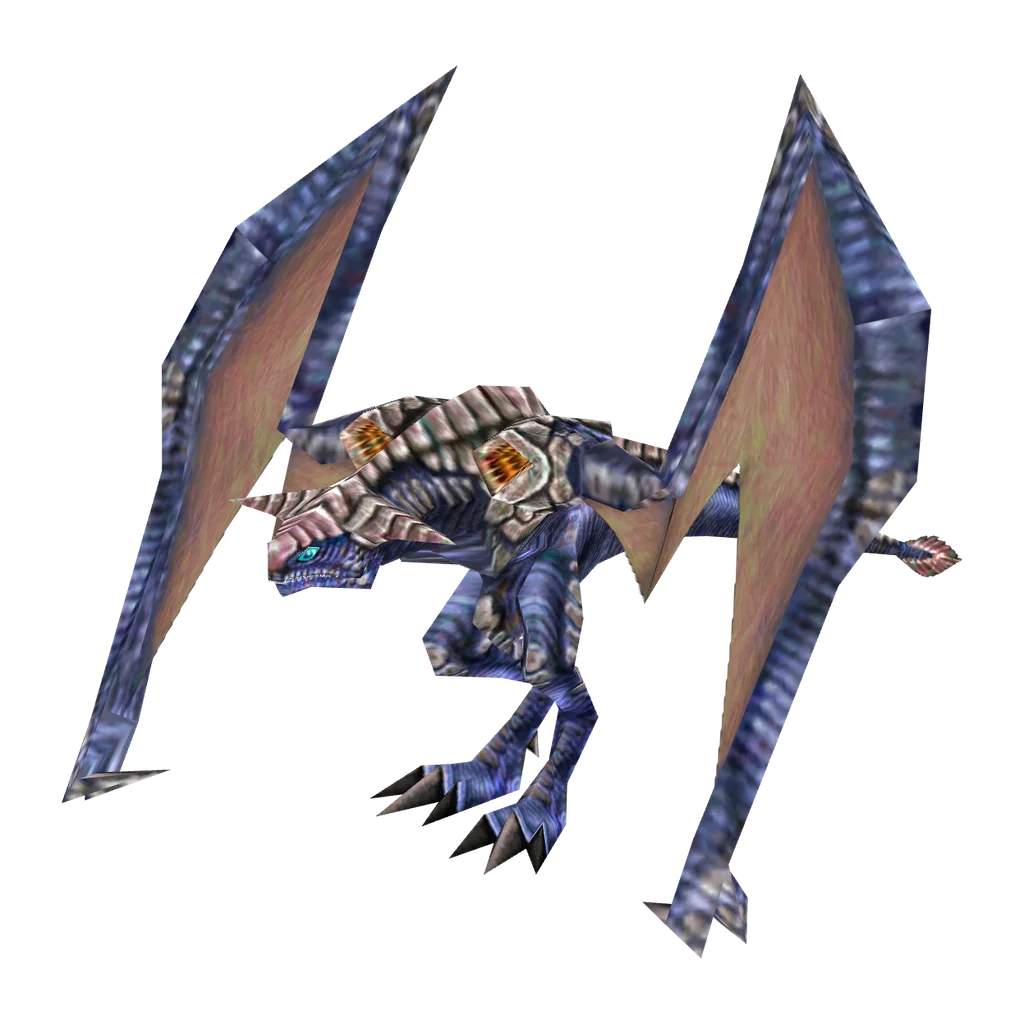
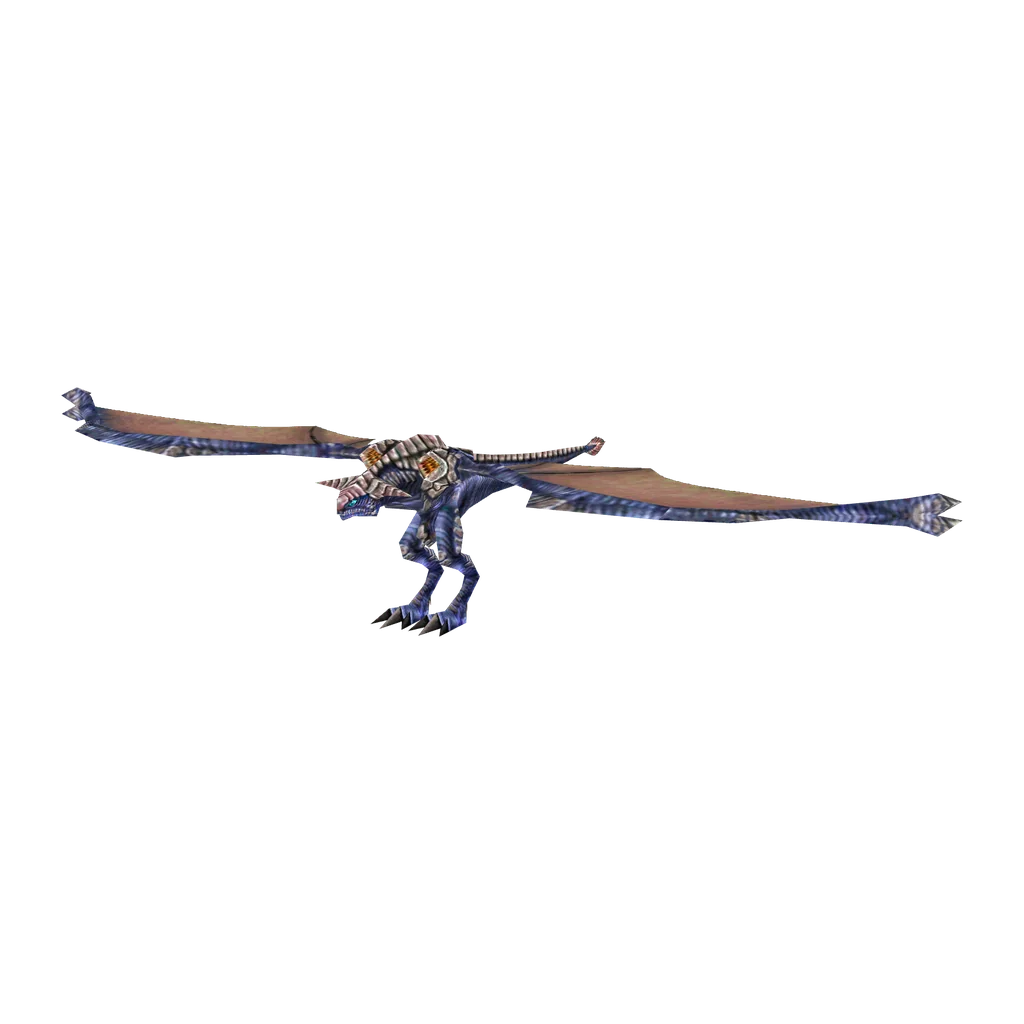
fix(monsters): align Gol Dragon name and spread-wing portraits

Changed region(s): [[0.0625, 0.0625, 0.9375, 0.9375]]

diff --git a/data/droptable/bb/data/zh.js b/data/droptable/bb/data/zh.js
@@ -3430,7 +3430,7 @@ window.DROP_DATA_ZH = {
             "dropRate": "1/4"
           },
           {
-            "name": "数码冰龙/数码冰龙",
+            "name": "戈尔龙/戈尔龙",
             "drops": [
               {
                 "item": "星之粉",
@@ -11271,7 +11271,7 @@ window.DROP_DATA_ZH = {
             "dropRate": "1/4"
           },
           {
-            "name": "数码冰龙/数码冰龙",
+            "name": "戈尔龙/戈尔龙",
             "drops": [
               {
                 "item": "勇者之拳",
@@ -19733,7 +19733,7 @@ window.DROP_DATA_ZH = {
             "dropRate": "1/4"
           },
           {
-            "name": "数码冰龙/数码冰龙",
+            "name": "戈尔龙/戈尔龙",
             "drops": [
               {
                 "item": "罪恶之光",
@@ -28806,7 +28806,7 @@ window.DROP_DATA_ZH = {
             "dropRate": "1/4"
           },
           {
-            "name": "数码冰龙/数码冰龙",
+            "name": "戈尔龙/戈尔龙",
             "drops": [
               {
                 "item": "上帝之手",

diff --git a/assets/js/i18n/items_i18n.js b/assets/js/i18n/items_i18n.js
@@ -1,4 +1,4 @@
-/* GENERATED by scripts/sync_item_i18n.py from droptable/i18n_names.json (SHA-256 f3e6de3e8fb19c68488ac03d1a85315b38bc0043512ce882f37be117c6826c06).
+/* GENERATED by scripts/sync_item_i18n.py from droptable/i18n_names.json (SHA-256 e189c94e97e587d816269e4b0612ebdf7ee989791d9250332d8fcc6639009dc5).
  * Do not edit this file; i18n_names.json is the sole authority. */
 window.ITEMS_I18N = {
   "1st_anniv_bronze_badge": {
@@ -2794,7 +2794,7 @@ window.ITEMS_I18N = {
   },
   "gol_dragon": {
     "en": "Gol Dragon",
-    "zh": "数码冰龙"
+    "zh": "戈尔龙"
   },
   "gold_badge": {
     "en": "Gold Badge",
@@ -3555,7 +3555,7 @@ window.ITEMS_I18N = {
   },
   "item_12": {
     "en": "ゴルドラゴン",
-    "zh": "数码冰龙",
+    "zh": "戈尔龙",
     "ja": "ゴルドラゴン"
   },
   "item_13": {

diff --git a/data/monsters.html b/data/monsters.html
@@ -654,7 +654,7 @@
 <li>[歼灭] Sweep-up Operation #6（扑杀作战 第6号） — Clear quest (11)</li>
 <li>[主线] 6-1:Test/Spaceship 1（虚拟宇宙船测试 1） — Clear quest (7)</li>
 </ul>
-<p><strong>数码冰龙（Gol Dragon）</strong></p>
+<p><strong>戈尔龙（Gol Dragon）</strong></p>
 <ul>
 <li>[VR] Respective Tomorrow（各自的明天） — Clear VR Spaceship (1)</li>
 <li>[Maximum Attack] Maximum Attack E: VR（极限攻击 E：虚拟空间） — Clear quest (1)</li>

diff --git a/data/droptable/ngc/data/zh.js b/data/droptable/ngc/data/zh.js
@@ -15376,7 +15376,7 @@ window.DROP_DATA_ZH = {
             "dropRate": "25%"
           },
           {
-            "name": "数码冰龙",
+            "name": "戈尔龙",
             "drops": [
               {
                 "item": "上帝之手",

diff --git a/docs/MONSTER_CATALOG.md b/docs/MONSTER_CATALOG.md
@@ -376,6 +376,7 @@ did not re-evaluate tiers or change the in-game rotation.
 - phantasmal-world 的部分资源命名有误，已改用客户端档案：其 Hidoom / Migium 实为出场地面物件（正确模型是 Pan Arms 档案 `bm7_s_paa_body` 的 `pal` / `par`），Canane 为另一模型（正确的是 `bm_ene_me1_mb`），挂在 MerissaA 名下的动作属于 Slime（`bm4_ps_ma_body`）。每次改动都应把渲染图与 Wiki / 高清图逐项对照。
 - 渲染：`npm run generate:monster-renders -- --harness-assets <phantasmal-world>/web/src/jsMain/resources/assets/npcs`（`scripts/render_monster_models.py`）先把档案条目提取到该目录的 `raw/`，再调用 `scripts/render_monster_models.mjs` 在无界面浏览器中驱动 phantasmal-world 的导出入口 `?npcBatch=1`（`window.__renderNpc`），用它自己的蒙皮与 NJM 动画转换摆姿势，分别在黑底与白底上渲染 2048 px；两图之差还原透明度，叠加发光材质保持半透明。结果裁切到模型、居中留边，输出 1024 px 与 160 px WebP，`manifest.json` 记录 SHA-256。该导出入口只存在于本机 phantasmal-world 工作副本，不属于其仓库；重新渲染前需在本机构建并以 `--harness` 指向它。
 - 姿势：默认用模型自己的待机动作（wait / stand / standby 等，Poison Lily 用张开的 `waito`）；EP4 首领一、二阶段分别用 `1st_standby` / `2nd_standby`。De Rol Le（含 Ultimate）用前进动作 `forward` 第 0 帧的伸展身体，模型绕 X 轴抬头 12°，从头部斜前方 45° 取景，与维护者提供的参考图一致。颈部 4 根触手是独立模型 `boss2_b_derorure_tentacle`，游戏运行时挂到本体头部骨骼下的 4 个空节点（骨骼 29–32）；`attach` 按骨骼编号把部件挂到摆好姿势的本体上，触手用自身摆动动作 `tloop` 第 16 帧（向后上方伸展）。Spinner 用 `standby`：其动作类型 `0x2005` 的四元数旋转位于缩放之前，phantasmal-world 原解析顺序（缩放在前）会读错，本机导出入口的构建修正了这一顺序。没有动作的模型用绑定姿势，Hildeblue 借用 Hildebear、Gobooma / Gigobooma 借用 Booma 的同骨架动作。Hidoom 以前的地面物件、Merissa A / AA、Pouilly Slime 的环境反射外壳在导出中会画成不透明色块，按材质序号隐藏。
+- 2026-09-30 姿态对齐：Zu 与 Nano Dragon 去掉 `wait` 动作，沿用 Pazuzu 的原始展翅姿势和默认机位（yaw 35°、pitch 12°）。原待机第 0 帧会让两翼竖起遮挡身体；本次用各自模型重新生成 1024 px 头像、160 px 缩略图及校验清单。Zu 的 Crater / Desert、普通 / Ultimate 共用同一外观，全部同步；Nano Dragon 的两组难度也共用此姿势。模型、贴图与高清参考图未改。 本地生产构建、13 项怪物数据/图片检查、33 项图鉴浏览器测试通过，并目视检查 Zu 两区域、Pazuzu 与 Nano Dragon 的 Ultimate 页面；未部署。
 - 档案贴图：没有自带贴图包的模型按编号引用同一档案的贴图包（默认第一个，可用 `texture` 指定、`textureOrder` 重排）。提取时把 XVRT 块首尾相接重新打包，因为部分档案的块带对齐填充，顺序读取 IFF 的解析器会只读到第一张贴图；同名的模型与动作（如 `fs_obj_hiraishin_a.nj` / `.njm`）分开索引。解码后的 DXT 贴图使用线性过滤（与游戏一致，避免放大后的像素块）。
 - 组合与特殊材质：`parts` 在同一场景中叠加多个模型（Olga Flow (Form 1) 的本体 `bssgc_pf01_body` 与腿 `bossgc_pf01_leg`，均用空中待机 `skywait`；该姿势按倒挂制作，`rotate` 绕 X 轴翻转 180° 后从 270° 方向取景，剑朝下，与高清图一致；地面待机 `grdwait` 绕 Z 轴翻转 180° 的正面姿势作为 `alternates` 保留，详情页以“地面姿势”按钮切换，列表缩略图只用主渲染）。Bee / Gee 的 `re4_b_bit` 是没有纹理坐标的环境映射模型，`plainMaps` + `planarUv` 按正面投影纹理坐标，显示其漩涡纹理。De Rol Le (Shell) 用头部骨盔 `boss2_b_helm_break`（与 Wiki 截图一致），Ultimate 取 `_a` 档案；骨盔与本体共用模型坐标，沿用本体的机位（绕 X 轴抬头 12°、斜前方 45°），骷髅头朝左，与 De Rol Le 本体图同向。
 - 未覆盖（5 个条目，保持高清图库或 Wiki 图片）：Vol Opt (Form 1)（参考图是整面墙）与 (Monitor)（屏幕上 Vol Opt 的脸是战斗中的实时画面，模型贴图只有文字）、De Rol Le (Mine)（候选模型与参考不符）、Nar Lily ×2（红色贴图未找到）。Death Gunner 目前与 Dark Gunner 使用同一贴图，客户端档案中没有找到其独立配色；Epsigard 使用 `re6_b_claw_body` 自带的红白贴图，比游戏截图多出白色区域。
@@ -440,3 +441,7 @@ did not re-evaluate tiers or change the in-game rotation.
 - 使用维护者提供的 1280 × 1280 透明 PNG 替换 Pyro Goran 普通 / Ultimate 共用的高清图。按图库规范以 Lanczos 缩放至 1024 × 1024，WebP quality 85 / method 6，保留透明度，成品 121,370 字节。
 - 清单同步附件名、来源路径 `User-provided corrections/2026-09-29/DESERT/暗黑狂刀魔.png`、尺寸、字节数、SHA-256 和两个外观绑定；旧 WebP 已移除，原附件不随站点提交。图库覆盖数量不变。
 - 本地验收：怪物测试 12 / 12 通过，成品已目视核对，生产构建通过（3,802 条路由、135 个活动片段）；构建产物的两种外观均绑定新图，旧资源已移除。维护者已批准本次图片修正提交并推送；线上部署以对应 Pages 工作流结果为准。
+
+### 2026-09-30 姿态验收交接
+
+维护者打开本地 Zu、Pazuzu 对照及 Nano Dragon 页面验收后，已要求对齐文档、提交推送。头像和缩略图的校验清单通过，生产构建及 33 项图鉴浏览器测试通过。本次与戈尔龙名称同步一并提交；前述未部署为本地验证时状态，线上结果以本次 Pages 工作流为准。

diff --git a/docs/PSOBB_CHINESE_LOCALIZATION.md b/docs/PSOBB_CHINESE_LOCALIZATION.md
@@ -300,3 +300,25 @@ WEAPONS …制徽章. Haven pins that revision and syncs the dictionary. The BB 
 code table (`data/bb_items.html`, all three languages) now references the BB
 name of each code at `031403`–`031409`, including `031406`, previously the raw
 v3 text `IRON BADGE`.
+
+### 2026-09-30 UN-13 Gol Dragon synchronization
+
+The user confirmed `Gol Dragon / ゴル　ドラゴン → 戈尔龙`. Local Unitxt
+slots `2:76` and `4:76` feed the regenerated droptable authority and Haven's
+`npm run sync:i18n`. The Chinese resource SHA-256 is
[1 lines of base64/hex data omitted]
+the authority SHA-256 is
[1 lines of base64/hex data omitted]
+
+The catalog, authored monster heading, area-name list and archived drop-chart
+labels use the confirmed name. The HD gallery's normalized source name changes;
+its original filename remains as provenance. Laconium item names are unchanged.
+
+Local verification passed the Unitxt gate, droptable's `verify:localization`,
+Haven's `npm test`, production build (3,802 routes), and all 33 monster-catalog
+browser tests, including Chinese search, language switching and reload.
+The user accepted the local result and authorized committing and pushing.
+Published sources are psobb-localization `3ae0bc9b0b509ce22c260f3f46041fda84b5c8f2` and
+droptable `99fd1eac50a5877c653010be80b37e8aa02e2da9`; both CI jobs pin this droptable revision.
+The same handoff includes the accepted Zu / Nano Dragon spread-wing renders.
+Pages deployment is verified separately after push. In-game display remains unverified.

diff --git a/docs/MONSTER_NAMES_BY_AREA.md b/docs/MONSTER_NAMES_BY_AREA.md
@@ -140,7 +140,7 @@
 | [混沌法师 / Chaos Sorcerer / カオスソーサラー](https://www.psohaven.com/data/enemies/chaos-sorcerer-e2.html) | 毁灭法师 / Gran Sorcerer / グランソーサラー | 普通怪 | VR Spaceship Beta |
 | [暗之水晶 / Bee R / ビーアル](https://www.psohaven.com/data/enemies/bee-r-e2.html) | 暗之水晶 / Gee R / ジーアル | 阶段／部件／附属单位 | VR Spaceship Beta |
 | [圣之水晶 / Bee L / ビーエル](https://www.psohaven.com/data/enemies/bee-l-e2.html) | 圣之水晶 / Gee L / ジーエル | 阶段／部件／附属单位 | VR Spaceship Beta |
-| [数码冰龙 / Gol Dragon / ゴル　ドラゴン](https://www.psohaven.com/data/enemies/gol-dragon.html) | 同左 | Boss | VR Spaceship Final |
+| [戈尔龙 / Gol Dragon / ゴル　ドラゴン](https://www.psohaven.com/data/enemies/gol-dragon.html) | 同左 | Boss | VR Spaceship Final |
 
 ### 中央管理区 / Central Control Area
 
